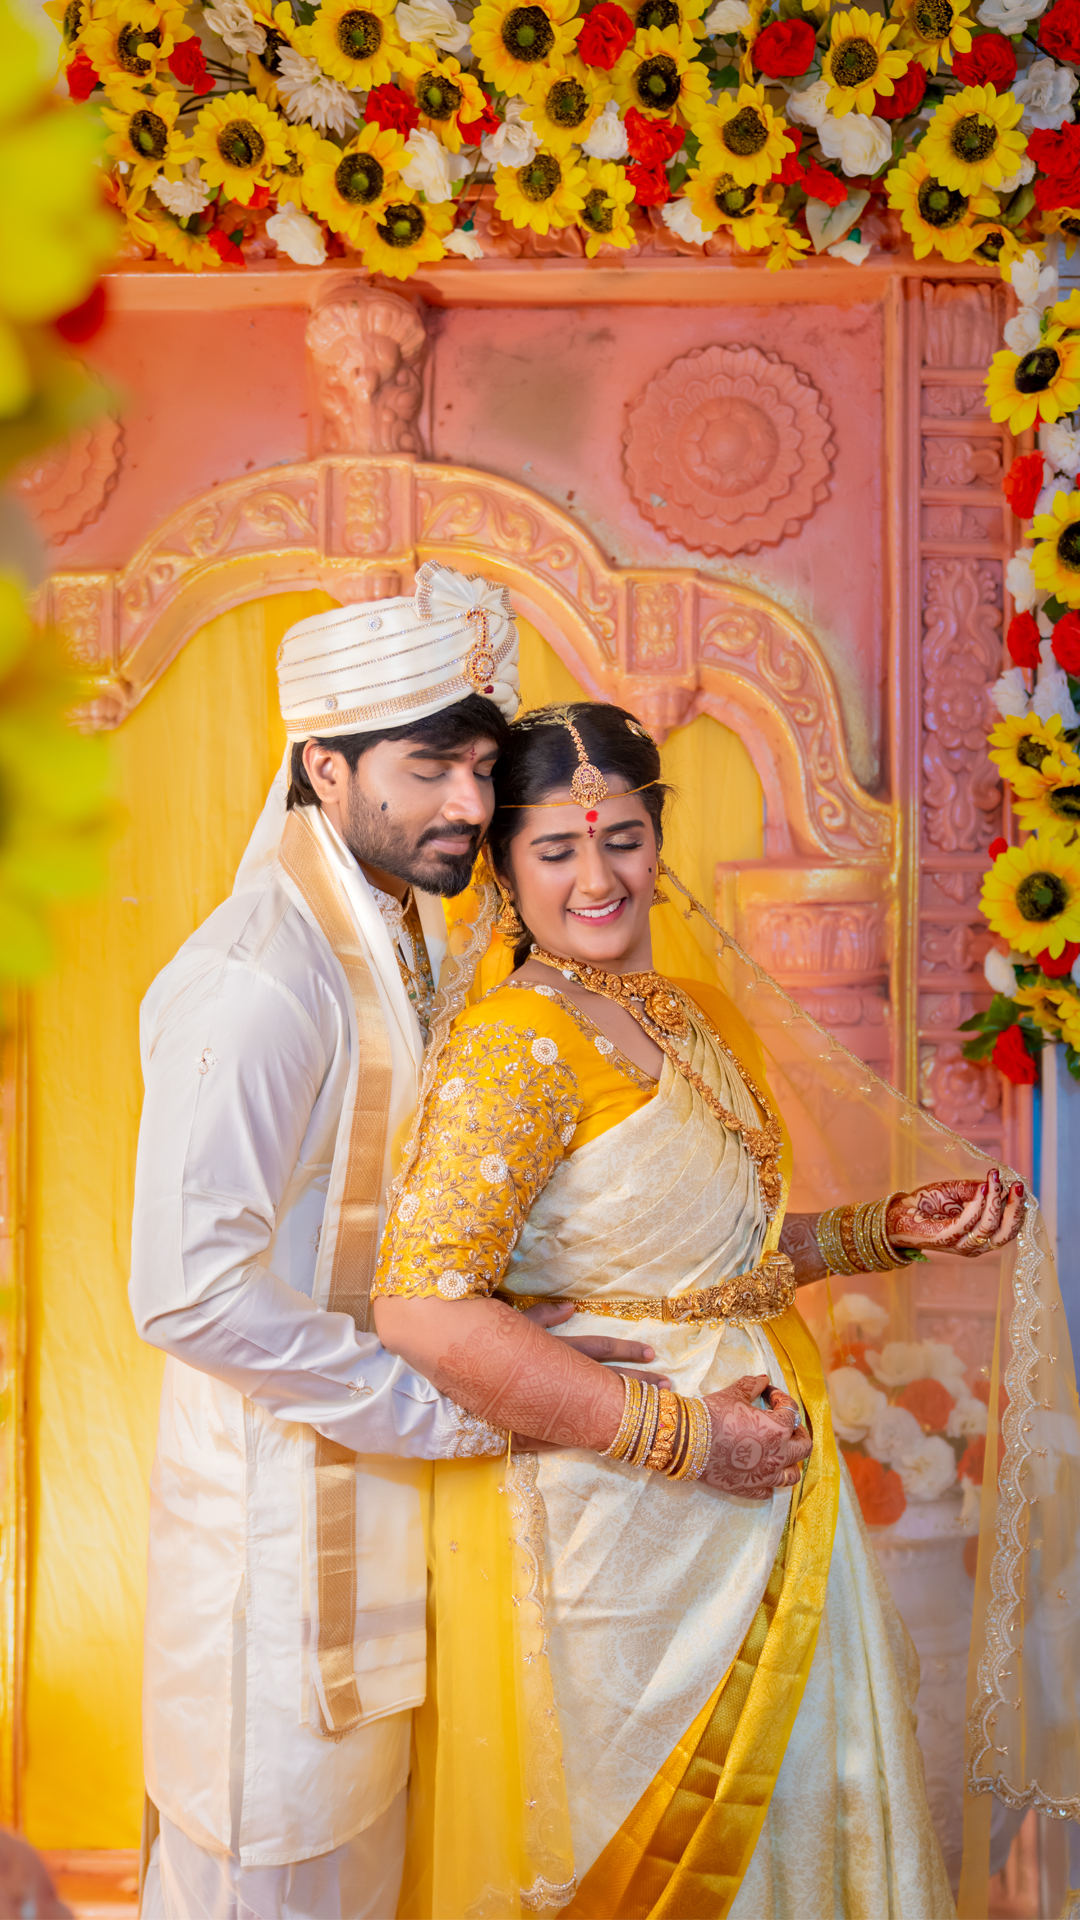
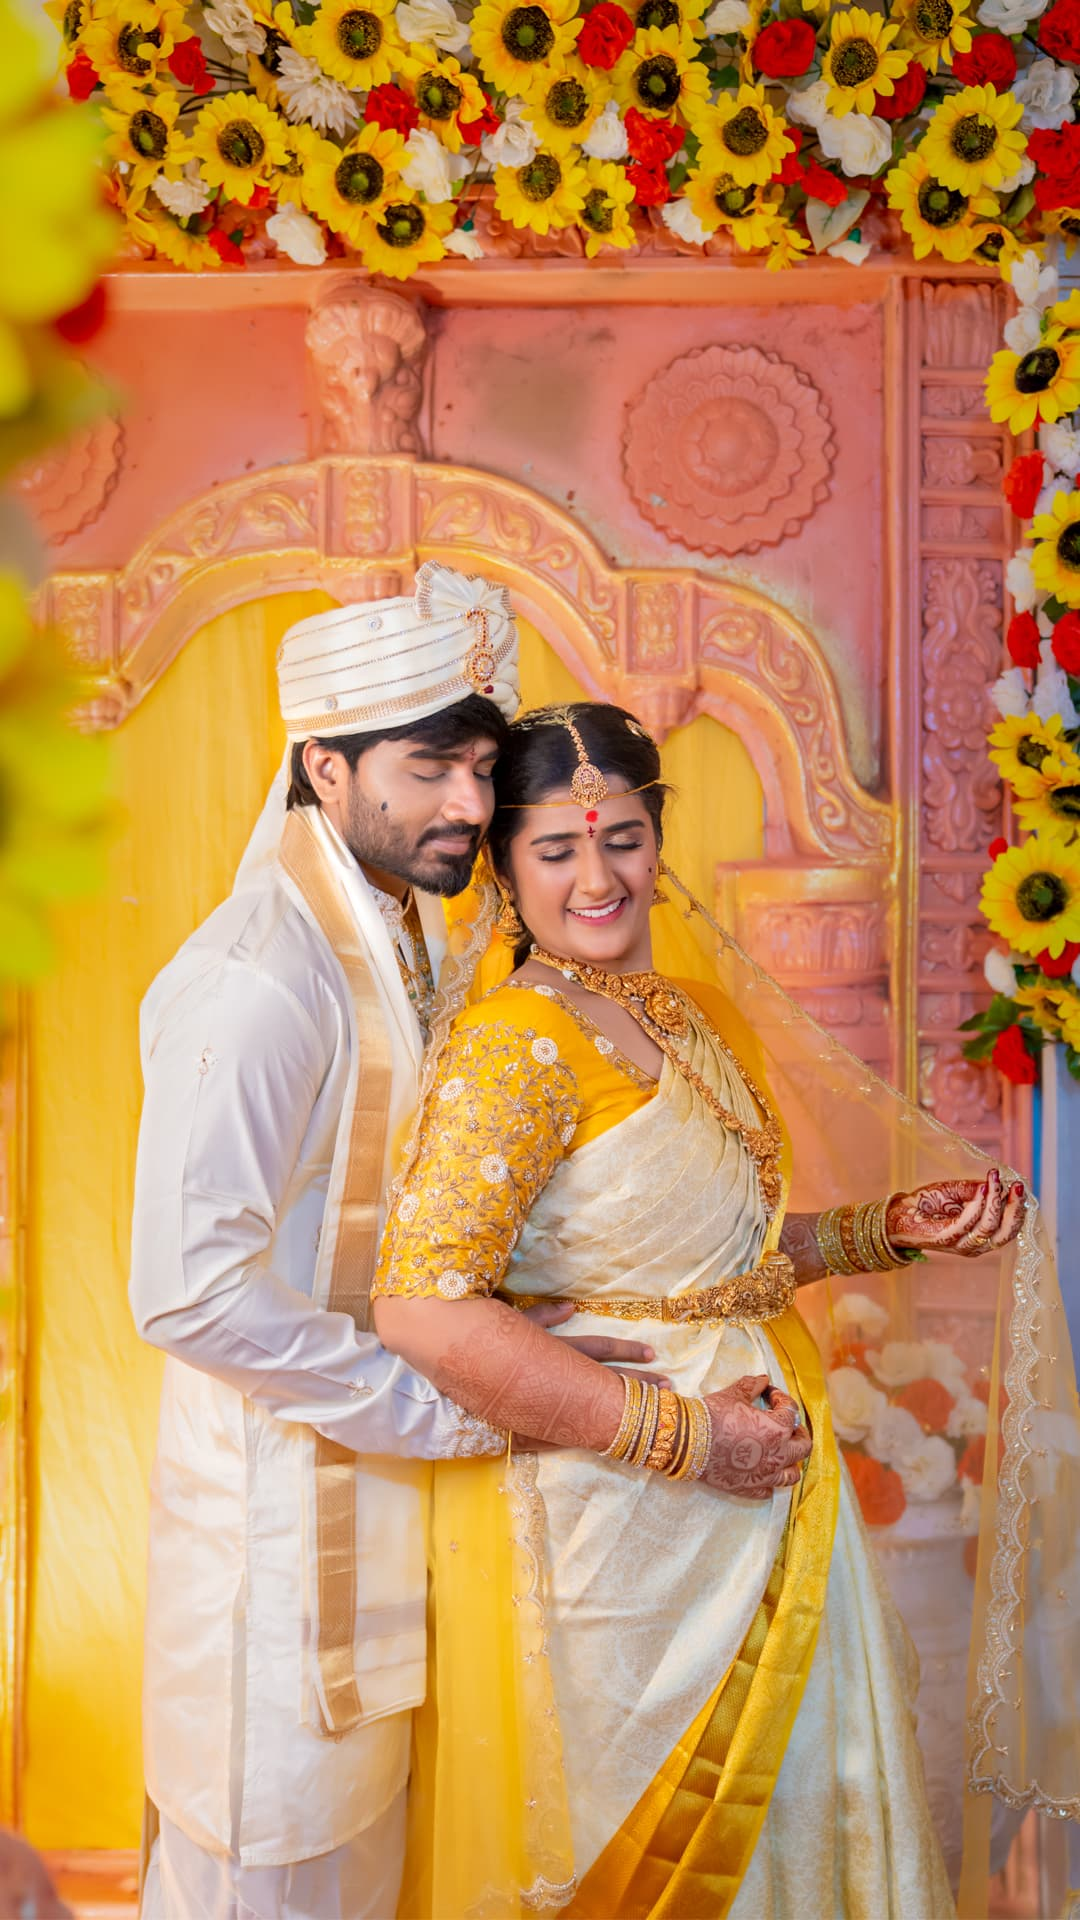
Implement responsive hero images with compressed mobile assets

diff --git a/src/components/LuxuryHeroSection.jsx b/src/components/LuxuryHeroSection.jsx
@@ -16,6 +16,20 @@ const HERO_IMAGES = [
     '/PC/10.jpg'
 ];
 
+const MOBILE_IMAGES = [
+    '/Mobile/01.jpg',
+    '/Mobile/02.jpg',
+    '/Mobile/03.jpg',
+    '/Mobile/04.jpg',
+    '/Mobile/05.jpg',
+    '/Mobile/06.jpg',
+    '/Mobile/07.jpg',
+    '/Mobile/08.jpg',
+    '/Mobile/09.jpg',
+    '/Mobile/10.jpg',
+    '/Mobile/11.jpg'
+];
+
 // Scrolling ticker items
 const TICKER = ['Candid Photography', '✦', 'Cinematic Films', '✦', 'Premium Albums', '✦', 'Destination Weddings', '✦', 'Drone Coverage', '✦', 'Hyderabad', '✦', 'Pan India', '✦'];
 
@@ -26,13 +40,22 @@ export default function LuxuryHeroSection() {
     const scale = useTransform(scrollY, [0, 700], [1, 1.1]);
 
     const [currentIndex, setCurrentIndex] = useState(0);
+    const [isMobile, setIsMobile] = useState(window.innerWidth < 768);
+
+    useEffect(() => {
+        const handleResize = () => setIsMobile(window.innerWidth < 768);
+        window.addEventListener('resize', handleResize);
+        return () => window.removeEventListener('resize', handleResize);
+    }, []);
+
+    const images = isMobile ? MOBILE_IMAGES : HERO_IMAGES;
 
     useEffect(() => {
         const timer = setInterval(() => {
-            setCurrentIndex((prev) => (prev + 1) % HERO_IMAGES.length);
-        }, 4000); // 4 seconds for faster visibility
+            setCurrentIndex((prev) => (prev + 1) % images.length);
+        }, 4000);
         return () => clearInterval(timer);
-    }, []);
+    }, [images.length]);
 
     return (
         <section className="relative h-screen w-full overflow-hidden bg-noir noise-bg">
@@ -41,9 +64,9 @@ export default function LuxuryHeroSection() {
             <motion.div className="absolute inset-0 z-0" style={{ y, scale }}>
                 <AnimatePresence initial={false}>
                     <motion.div
-                        key={currentIndex}
+                        key={`${isMobile ? 'm' : 'd'}-${currentIndex}`}
                         className="absolute inset-0 bg-cover bg-center"
-                        style={{ backgroundImage: `url(${HERO_IMAGES[currentIndex]})` }}
+                        style={{ backgroundImage: `url(${images[currentIndex]})` }}
                         initial={{ opacity: 0 }}
                         animate={{ opacity: 1 }}
                         exit={{ opacity: 0 }}
@@ -63,7 +86,7 @@ export default function LuxuryHeroSection() {
 
             {/* ── DOTS INDICATOR ────────────────── */}
             <div className="absolute bottom-24 left-1/2 -translate-x-1/2 z-50 flex gap-2">
-                {HERO_IMAGES.map((_, i) => (
+                {images.map((_, i) => (
                     <button
                         key={i}
                         onClick={() => setCurrentIndex(i)}

diff --git a/tmp/compress_images.js b/tmp/compress_images.js
@@ -3,16 +3,17 @@ import fs from 'fs/promises';
 import path from 'path';
 
 const PC_DIR = 'c:/Users/hp/OneDrive/Desktop/staffarc/LandScape Weddings/public/PC';
+const MOBILE_DIR = 'c:/Users/hp/OneDrive/Desktop/staffarc/LandScape Weddings/public/Mobile';
 
-async function compressImages() {
-    const files = await fs.readdir(PC_DIR);
+async function compressImagesInDir(dirPath) {
+    const files = await fs.readdir(dirPath);
     const images = files.filter(f => f.toLowerCase().endsWith('.jpg') || f.toLowerCase().endsWith('.jpeg'));
 
-    console.log(`Found ${images.length} images to compress...`);
+    console.log(`Found ${images.length} images in ${path.basename(dirPath)} to compress...`);
 
     for (const img of images) {
-        const inputPath = path.join(PC_DIR, img);
-        const outputPath = path.join(PC_DIR, `comp_${img}`);
+        const inputPath = path.join(dirPath, img);
+        const outputPath = path.join(dirPath, `comp_${img}`);
 
         console.log(`Compressing ${img}...`);
 
@@ -32,7 +33,12 @@ async function compressImages() {
     }
 }
 
-compressImages().catch(err => {
+async function run() {
+    await compressImagesInDir(PC_DIR);
+    await compressImagesInDir(MOBILE_DIR);
+}
+
+run().catch(err => {
     console.error(err);
     process.exit(1);
 });
